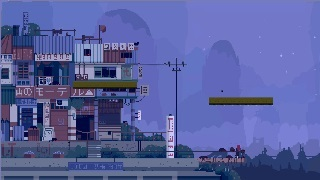
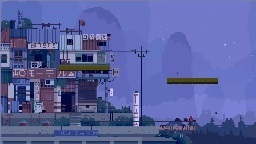
level selection fixed

diff --git a/layers.js b/layers.js
@@ -93,17 +93,56 @@ function createLevelPreviewLayer(scene) {
 }
 
 function drawLevelPreviewImages(context) {
+    //row 1------------------------------------------------------------------------------------------
     var img = new Image();
     img.onload = function () {
-    context.drawImage(img, 100, 100); //position the level preview image
+    context.drawImage(img, 83, 144); //position the level preview image
     }
     img.src = "./LevelPreviews/PinkCityPreview.PNG";
 
     var img1 = new Image();
     img1.onload = function () {
-    context.drawImage(img1, 450, 100); //position the level preview image
+    context.drawImage(img1, 83 + 256 + 30, 144); //position the level preview image
     }
     img1.src = "./LevelPreviews/FutureTownPreview.JPG";
+
+    var img2 = new Image();
+    img2.onload = function () {
+    context.drawImage(img2, 83 + 512 + 60, 144); //position the level preview image
+    }
+    img2.src = "./LevelPreviews/FutureCityPreview.JPG";
+
+    var img3 = new Image();
+    img3.onload = function () {
+    context.drawImage(img3, 83 + 768 + 90, 144); //position the level preview image
+    }
+    img3.src = "./LevelPreviews/FutureCityPreview.JPG";
+
+    //row2 ------------------------------------------------------------------------------------------
+    var img4 = new Image();
+    img4.onload = function () {
+    context.drawImage(img4, 83, 144 + 288); //position the level preview image
+    }
+    img4.src = "./LevelPreviews/PinkCityPreview.PNG";
+
+    var img5 = new Image();
+    img5.onload = function () {
+    context.drawImage(img5, 83 + 256 + 30, 144 + 288); //position the level preview image
+    }
+    img5.src = "./LevelPreviews/FutureTownPreview.JPG";
+
+    var img6 = new Image();
+    img6.onload = function () {
+    context.drawImage(img6, 83 + 512 + 60, 144 + 288); //position the level preview image
+    }
+    img6.src = "./LevelPreviews/FutureCityPreview.JPG";
+
+    var img7 = new Image();
+    img7.onload = function () {
+    context.drawImage(img7, 83 + 768 + 90, 144 + 288); //position the level preview image
+    }
+    img7.src = "./LevelPreviews/FutureCityPreview.JPG";
+
 
     //add more images for previews
 }

diff --git a/LevelSelect.js b/LevelSelect.js
@@ -6,13 +6,13 @@ function selectLevel(canvas, context, Cselected) {
 .then(([Cursor, Scene]) => {
     //console.log('level got passed: '+ Cselected);
     Scene.addEntity(Cursor);  //add cursor to the scene
-    Cursor.pos.set(410, 275);
+    Cursor.pos.set(83 + 250, 275);
 
     choiceRow = 0;
     choiceCol = 0;
     LChoices = [
-      ['PinkCity', 'FutureTown', 'FutureCity', 'Level - 4'],
-      ['Level - 5', 'Level - 6', 'Level - 7', 'Level - 8']
+      ['PinkCity', 'FutureTown', 'FutureCity', 'FutureCity'],
+      ['PinkCity', 'FutureTown', 'FutureCity', 'FutureCity']
     ];
 
     //cursor movement
@@ -22,25 +22,25 @@ function selectLevel(canvas, context, Cselected) {
       if (e.code === 'KeyD') {    //right
         if(choiceCol < LChoices[choiceRow].length-1) {
           choiceCol++;
-          Cursor.pos.x += 350;
+          Cursor.pos.x += 256 + 30;
         }
       }
       if (e.code === 'KeyA') {    //left
         if(choiceCol > 0) {
           choiceCol--;
-          Cursor.pos.x -= 350;
+          Cursor.pos.x -= 256 + 30;
         }
       }
       if (e.code === 'KeyS') {    //down
         if(choiceRow < LChoices.length-1) {
           choiceRow++;
-          Cursor.pos.y += 200;
+          Cursor.pos.y += 288;
         }
       }
       if (e.code === 'KeyW') {     //up
         if(choiceRow > 0) {
           choiceRow--;
-          Cursor.pos.y -= 200;
+          Cursor.pos.y -= 288;
         }
       }
     };

diff --git a/sprites.js b/sprites.js
@@ -13,8 +13,8 @@ function loadBackgroundSprites(name) {
           return sprites;
         } else if (name === 'FutureCity') {
           const sprites = new SpriteSheet(image, 32, 32);
-          sprites.defineTile('ground', 0, 0);
-          sprites.defineTile('platform', 0, 0);
+          sprites.defineTile('ground', 2, 0);
+          sprites.defineTile('platform', 2, 0);
           return sprites;
         }
     });
